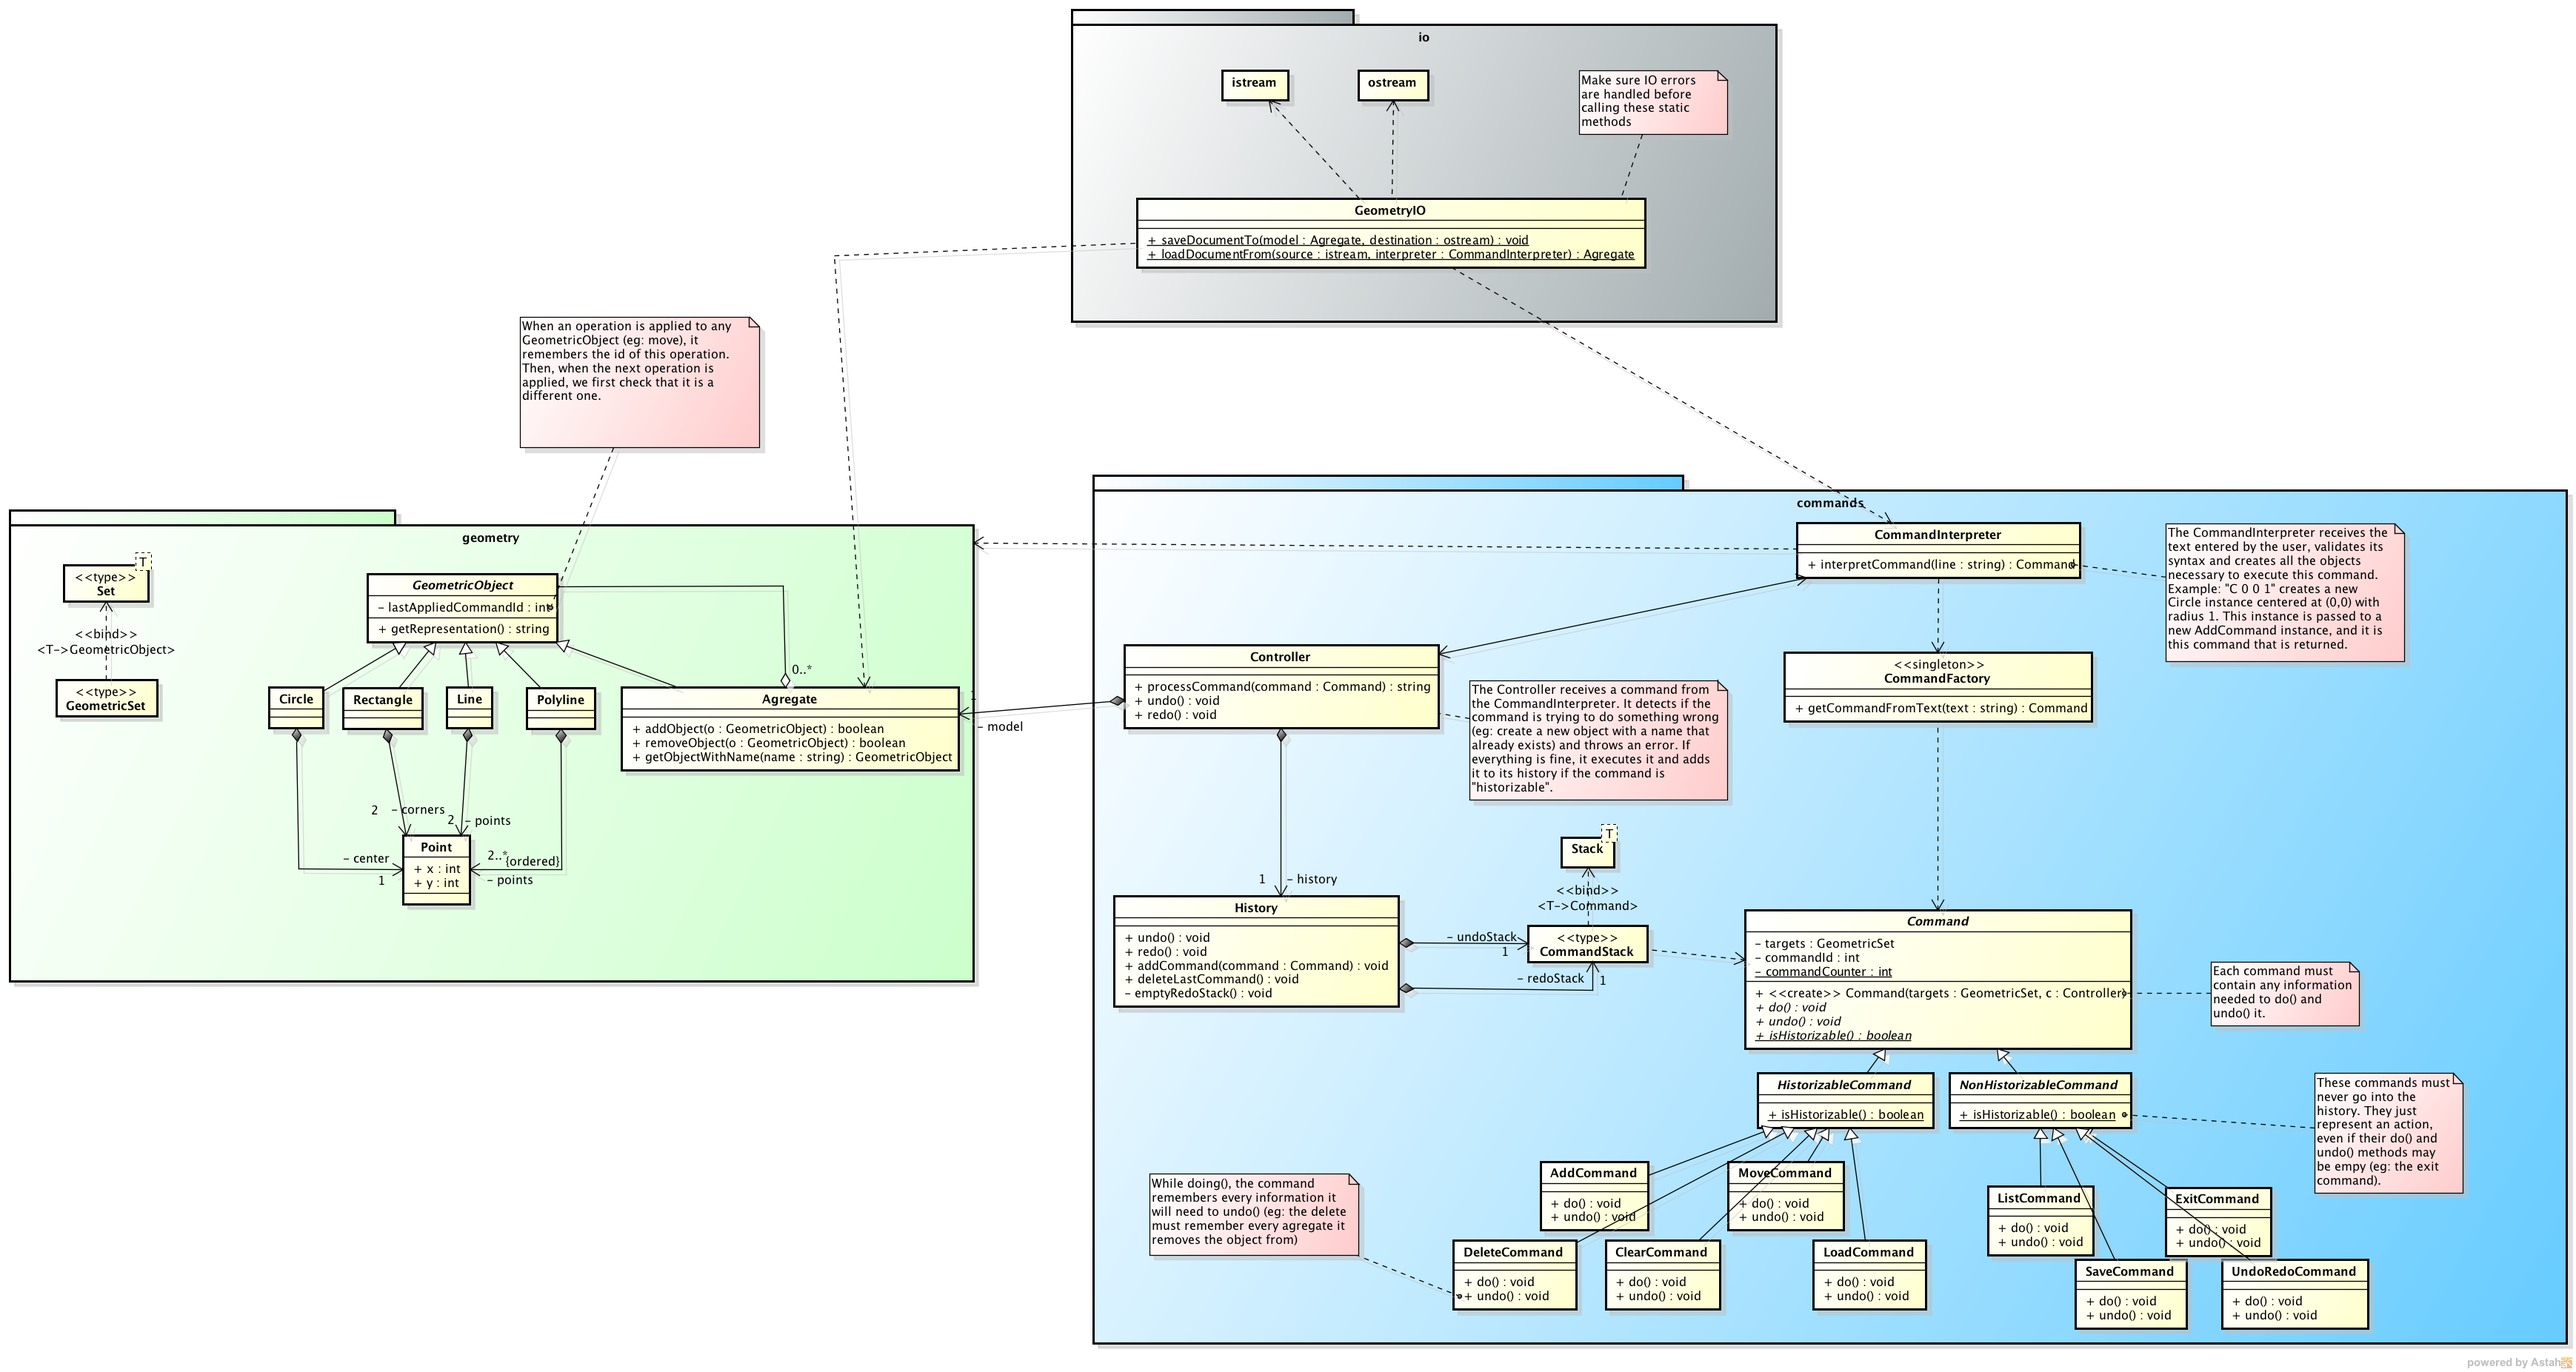
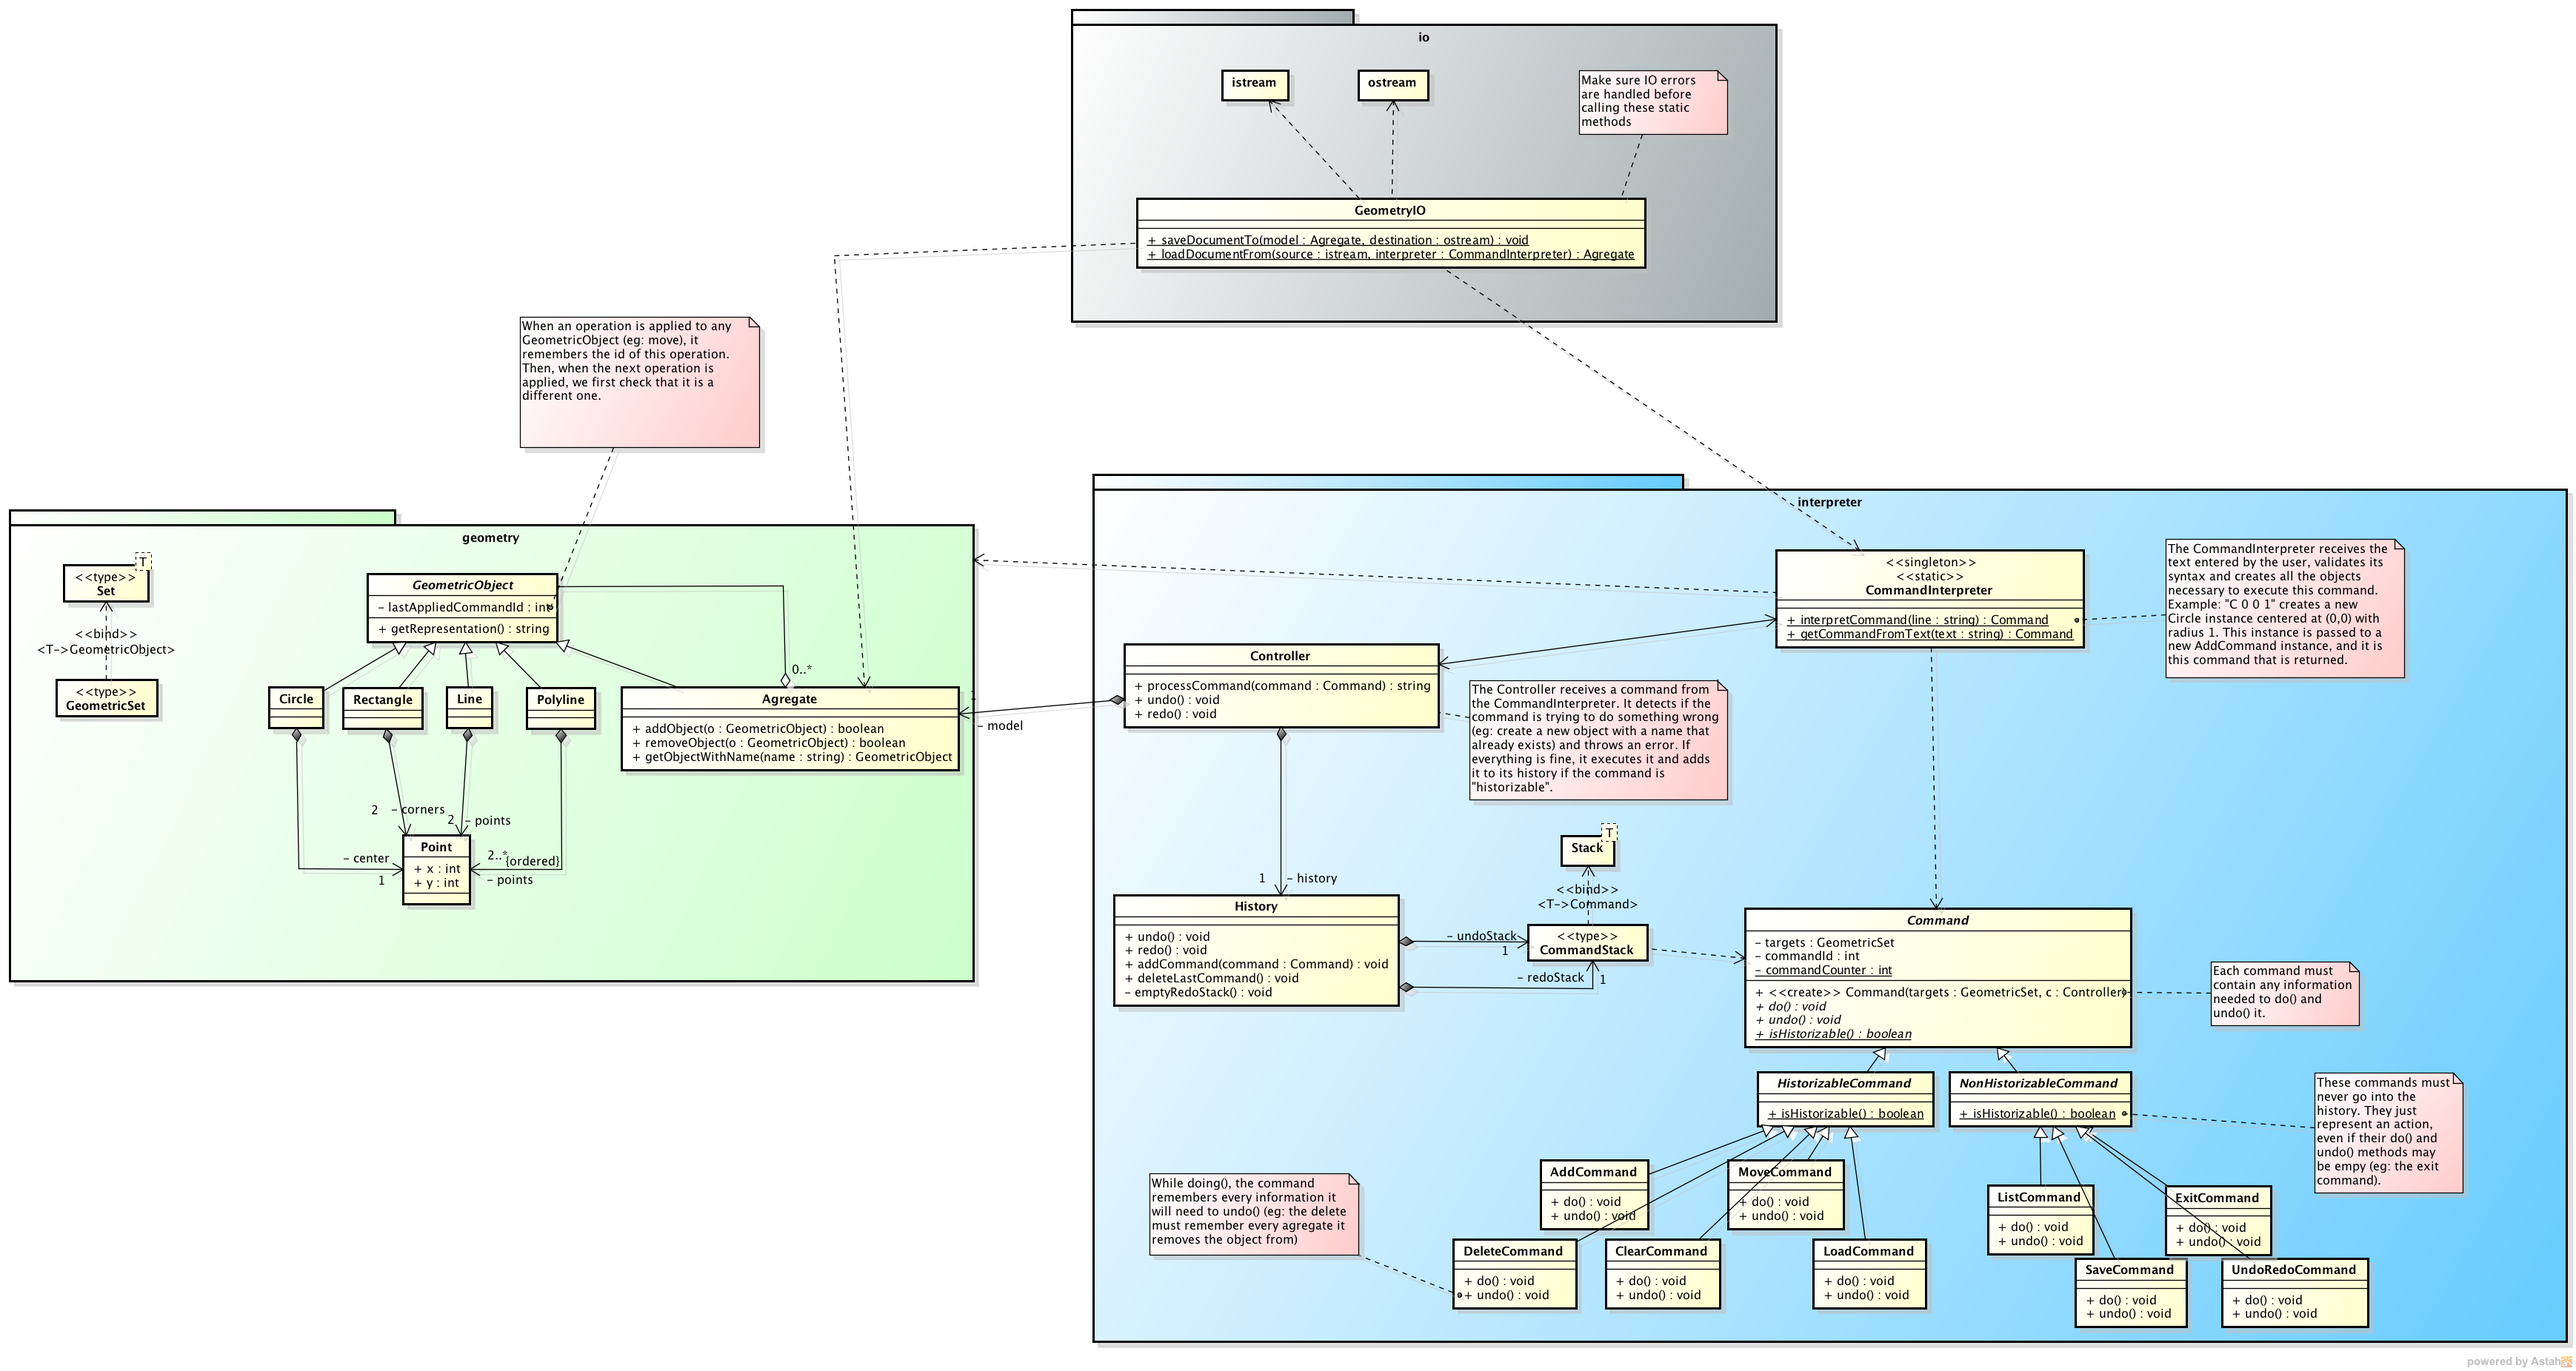
Commands : simplified command creation workflow by merging CommandInterpreter and CommandFactory

diff --git a/src/commands/CommandInterpreter.h b/src/commands/CommandInterpreter.h
@@ -1,6 +1,6 @@
-//-- Interface de la classe <CommandFactory> (fichier CommandFactory.h)
-#if ! defined ( __CommandFactory___H_ )
-#define __CommandFactory___H_
+//-- Interface de la classe <CommandInterpreter> (fichier CommandInterpreter.h)
+#if ! defined ( __CommandInterpreter___H_ )
+#define __CommandInterpreter___H_
 
 //--------------------------------------------------- Interfaces utilisées
 #include "Command.h"
@@ -8,14 +8,13 @@
 //------------------------------------------------------------- Constantes
 //------------------------------------------------------------------ Types
 //------------------------------------------------------------------------
-// Rôle de la classe <CommandFactory>
-// CommandFactory est une classe Singleton permettant d'obtenir une
-// instance de commande à partir de sa représentation textuelle données
-// par l'utilisateur.
-// Ex : "MOVE" => MoveCommand
+// Rôle de la classe <CommandInterpreter>
+// CommandInterpreter is a static class allowing to obtain an instance
+// of the Command object representing the action corresponding to the
+// user input (given as string).
 //------------------------------------------------------------------------
 
-class CommandFactory
+class CommandInterpreter
 {
 //----------------------------------------------------------------- PUBLIC
 
@@ -23,32 +22,31 @@ public:
 //--------------------------------------------------- Constantes de classe
 //----------------------------------------------------- Méthodes publiques
 	
-	static CommandFactory * getInstance ( );
-	// Mode d'emploi :
-	// L'unique manière d'obtenir une instance de CommandFactory
-	
-	Command & getCommandFromText ( const std::string text );
+	static Command & interpretCommand ( std::string line );
 	
 //------------------------------------------------- Surcharge d'opérateurs
 //-------------------------------------------- Constructeurs - destructeur
 
-	virtual ~CommandFactory ( );
-	// Mode d'emploi :
-	// 
-	// Contrat :
-	// 
-
+	// Static class => private constructor
+	virtual ~CommandInterpreter ( );
+	
 //------------------------------------------------------------------ PRIVE 
 
 protected:
 //----------------------------------------------------- Méthodes protégées
-	CommandFactory ( );
+	
+	CommandInterpreter ( );
 	// Contrat :
-	// Constructeur privé par la classe est un singleton
+	// Static class
+	
+	static Command & getCommandFromText ( const std::string text );
+	// Mode d'emploi :
+	// Returns a new instance of the appropriate Command
+	// Example: "MOVE" => MoveCommand
+	
 //----------------------------------------------------- Attributs protégés
-	static CommandFactory * theInstance;
 };
 
-//------------------- Autres définitions dépendantes de <CommandFactory>
+//------------------- Autres définitions dépendantes de <CommandInterpreter>
 
-#endif // __CommandFactory___H_ 
+#endif // __CommandInterpreter___H_ 

diff --git a/src/commands/CommandInterpreter.cpp b/src/commands/CommandInterpreter.cpp
@@ -1,0 +1,40 @@
+//-- Réalisation de la classe <CommandInterpreter> (fichier CommandInterpreter.cpp)
+//---------------------------------------------------------------- INCLUDE
+//-------------------------------------------------------- Include système
+#include <iostream>
+using namespace std;
+//------------------------------------------------------ Include personnel
+#include "CommandInterpreter.h"
+#include "AllCommands.h"
+//------------------------------------------------------------- Constantes
+//----------------------------------------------------------------- PUBLIC
+//----------------------------------------------------- Méthodes publiques
+
+Command & CommandInterpreter::interpretCommand ( string line )
+{
+	// TODO: actual command interpreting (parameters, etc)
+	return getCommandFromText( line );
+}
+
+//------------------------------------------------- Surcharge d'opérateurs
+//-------------------------------------------- Constructeurs - destructeur
+
+//------------------------------------------------------------------ PRIVÉ
+
+//----------------------------------------------------- Méthodes protégées
+
+Command & CommandInterpreter::getCommandFromText( const string text )
+{
+	Command * c = NULL;
+	if ( "MOVE" == text )
+	{
+		c = new MoveCommand( );
+	}
+	// TODO: add support for all command types
+	else
+	{
+		// TODO: error handling (command not found)
+	}
+	
+	return *c;
+}

diff --git a/src/geometry.cpp b/src/geometry.cpp
@@ -6,7 +6,7 @@ using namespace std;
 #include "geometricObjects/Rectangle.h"
 #include "geometricObjects/Line.h"
 
-#include "commands/CommandFactory.h"
+#include "commands/CommandInterpreter.h"
 #include "commands/AllCommands.h"
 
 int main ( )
@@ -27,9 +27,9 @@ int main ( )
 	line.GetRepresentation ( );
 	
 	// Testing CommandFactory & command id auto-increment
-	Command & mc = CommandFactory::getInstance()->getCommandFromText("MOVE");
-	Command & mc2 = CommandFactory::getInstance()->getCommandFromText("MOVE");
-	Command & mc3 = CommandFactory::getInstance()->getCommandFromText("MOVE");
+	Command & mc = CommandInterpreter::interpretCommand("MOVE");
+	Command & mc2 = CommandInterpreter::interpretCommand("MOVE");
+	Command & mc3 = CommandInterpreter::interpretCommand("MOVE");
 	cout << "Instanciated three commands. Their IDs : "
 		<< mc.getCommandId() << ", "
 		<< mc2.getCommandId() << ", "
